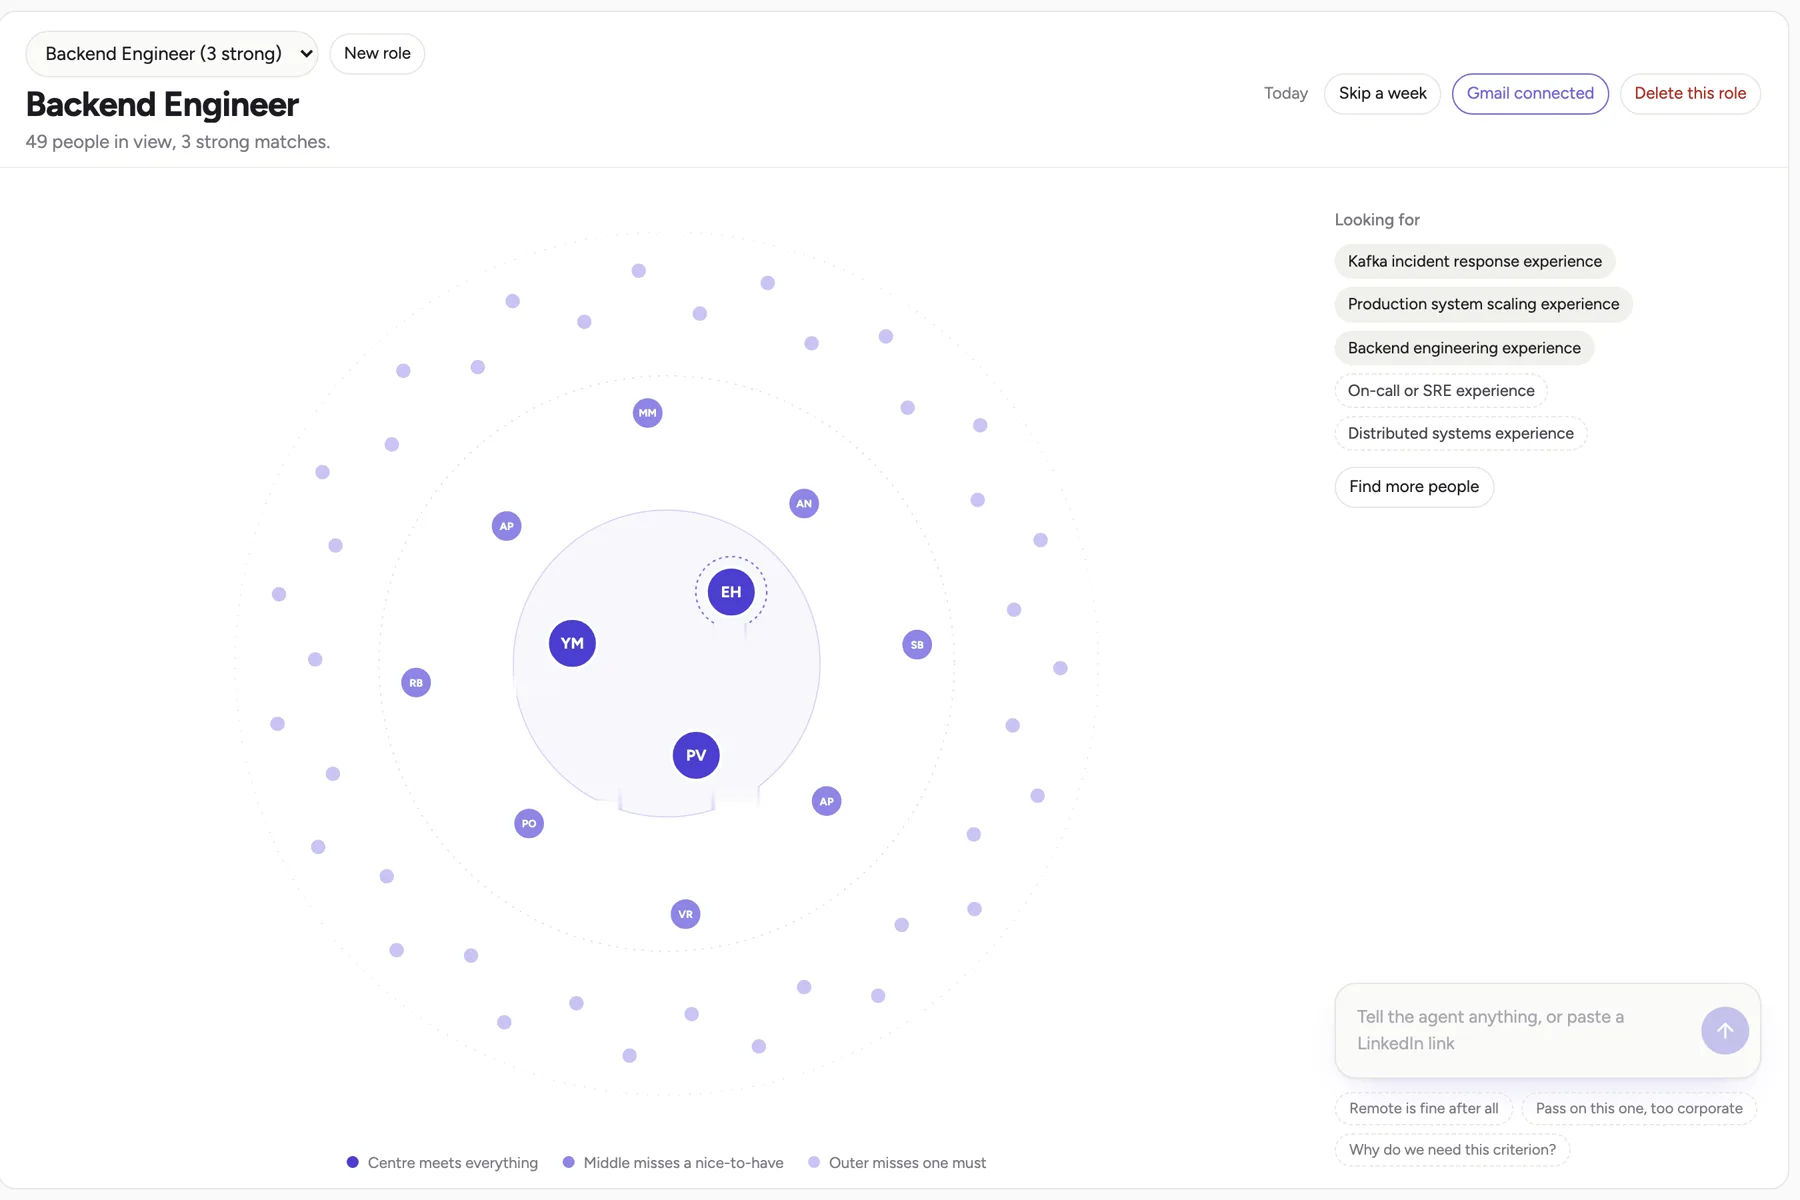
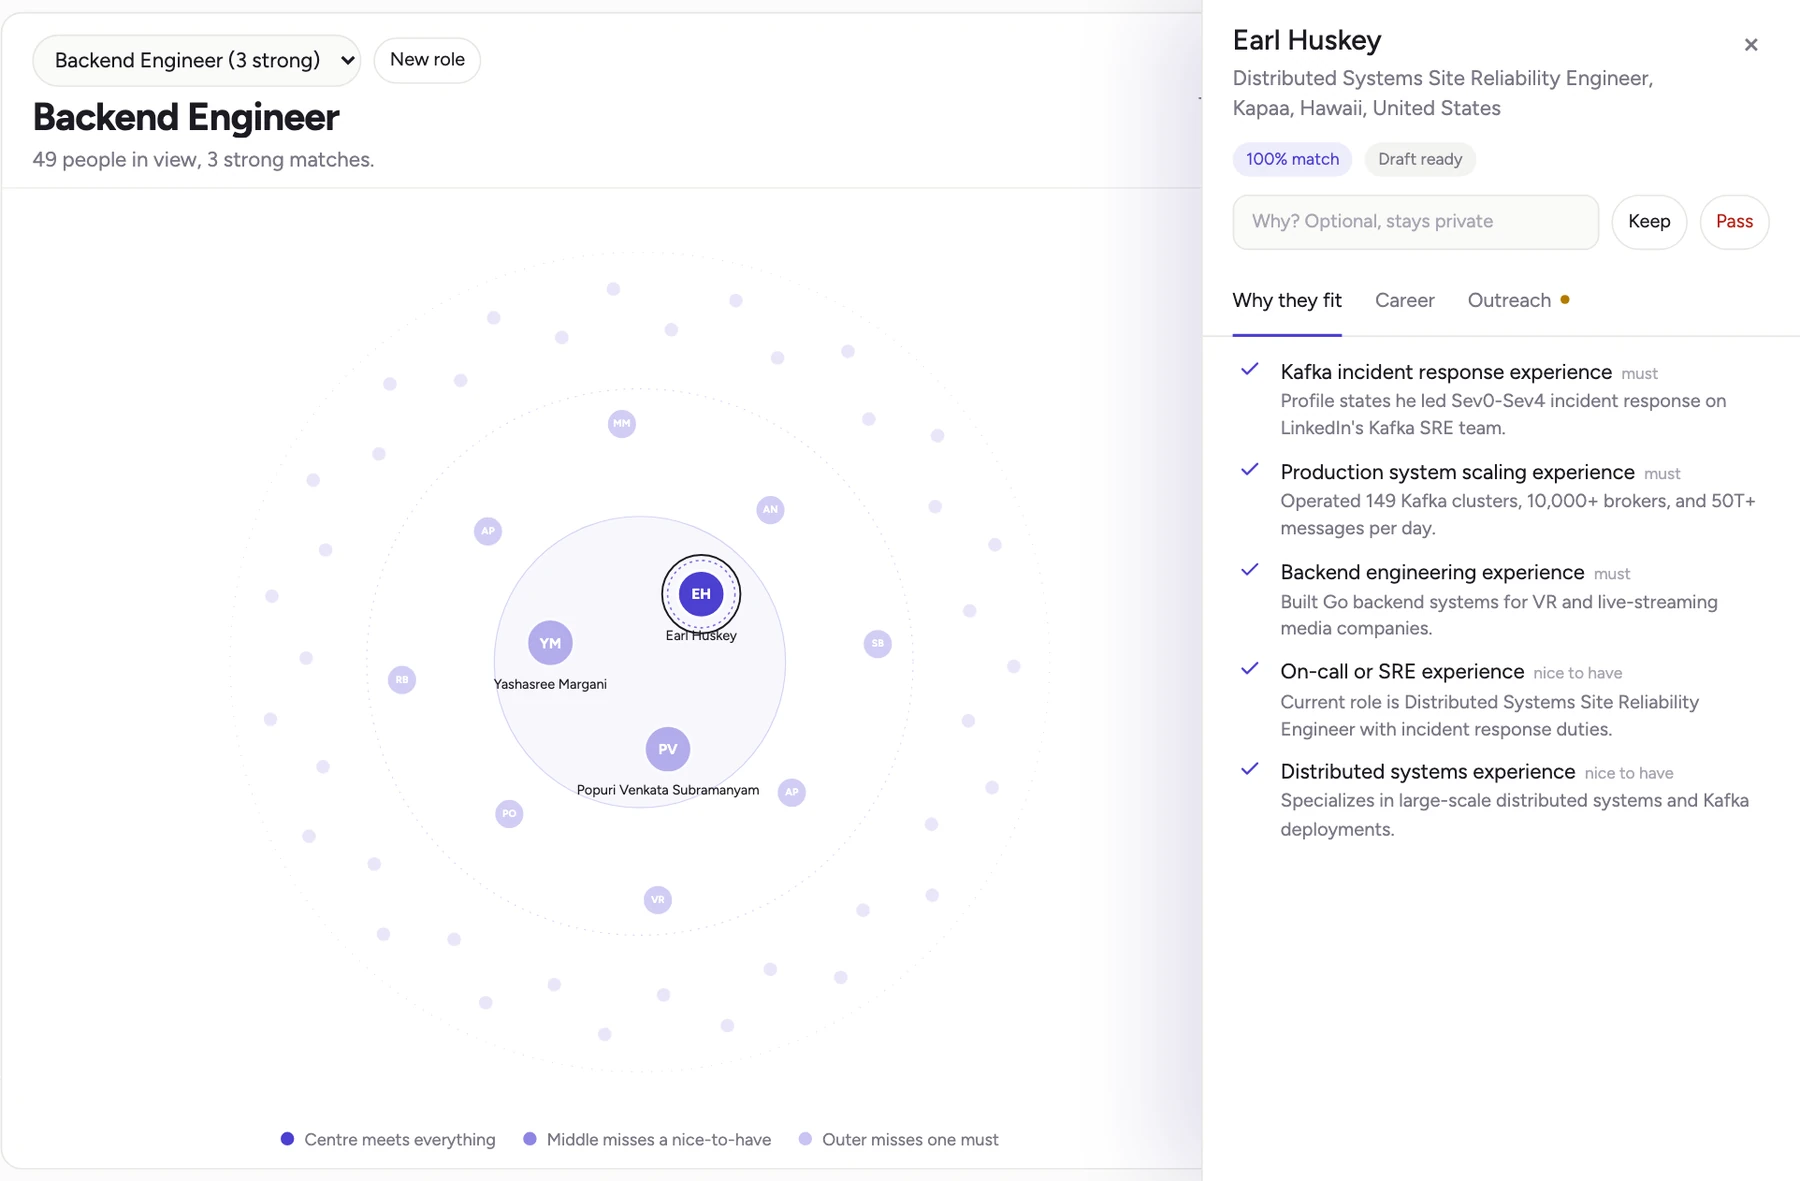
Landing and meetings: the Stellar Ark ring, and a fuller hiring screenshot
The landing page opens with who builds Kaki: a band under the hero with the
ring, naming the three wearables and how the ring brings a table-top meeting
into Kaki; the 11:00 step points back to it. Start recording offers the ring
as a third source, falling back to the built-in mic when it is not paired.

The 16:00 screenshot now shows the three strong matches in the centre with
one opened on why he fits, which is what that step says.

diff --git a/public/landing.html b/public/landing.html
@@ -50,6 +50,21 @@
         </figure>
       </section>
 
+      <!-- Maker: who Kaki is built for, and the ring that brings the room in. -->
+      <section class="maker" id="maker">
+        <div class="wrap maker-grid">
+          <figure class="maker-shot reveal">
+            <img src="/assets/landing/ring-hero.webp" width="1920" height="1072"
+                 alt="The Stellar Ark ring standing beside its open charging case.">
+          </figure>
+          <div class="maker-copy reveal">
+            <p class="kicker">Built at Stellar Ark AI</p>
+            <h2>Made by a small team that makes wearables.</h2>
+            <p>Stellar Ark builds AI-native wearables: context glasses, a pendant and this ring. Kaki is the agent that runs on their company records at work. Calls reach it through a browser tab; meetings at a table reach it through the ring on your finger.</p>
+          </div>
+        </div>
+      </section>
+
       <!-- Problem: one statement, the way a small team lives it. -->
       <section class="problem">
         <div class="wrap narrow reveal">
@@ -83,7 +98,7 @@
               <li class="step" data-shot="2">
                 <time>11:00</time>
                 <h3>On the call, it keeps track</h3>
-                <p>Kaki writes the call down line by line. When someone says plan A after the team agreed on B, it flags the conflict.</p>
+                <p>Kaki writes the call down line by line, from the call's tab or from the ring on your finger. When someone says plan A after the team agreed on B, it flags the conflict.</p>
                 <figure class="step-shot"><img src="/assets/landing/meeting.webp" width="1920" height="960" loading="lazy" alt="A live meeting in Kaki: promises, decisions, a conflict flag and a withheld secret in the transcript."></figure>
               </li>
               <li class="step" data-shot="3">
@@ -102,7 +117,7 @@
                 <time>16:00</time>
                 <h3>From “we need someone” to outreach</h3>
                 <p>You confirm what the role needs. Kaki searches public profiles, puts the best matches in the middle and says why each one fits. It drafts the outreach.</p>
-                <figure class="step-shot"><img src="/assets/landing/recruit.webp" width="1800" height="1200" loading="lazy" alt="Candidates for a backend role arranged by how many criteria they meet, with the criteria listed beside them."></figure>
+                <figure class="step-shot"><img src="/assets/landing/recruit.webp" width="1800" height="1181" loading="lazy" alt="Three strong matches for a backend role in the centre ring, with one opened to show why he meets each criterion."></figure>
               </li>
             </ol>
 
@@ -113,12 +128,13 @@
                 <img src="/assets/landing/meeting.webp" width="1920" height="960" alt="" loading="lazy">
                 <img src="/assets/landing/promised.webp" width="1920" height="920" alt="" loading="lazy">
                 <img src="/assets/landing/map.webp" width="1500" height="560" alt="" loading="lazy">
-                <img src="/assets/landing/recruit.webp" width="1800" height="1200" alt="" loading="lazy">
+                <img src="/assets/landing/recruit.webp" width="1800" height="1181" alt="" loading="lazy">
               </div>
             </div>
           </div>
         </div>
       </section>
+
 
       <!-- Control: five rules, each its own cell. -->
       <section class="control" id="control">
@@ -173,6 +189,7 @@
           </dl>
         </div>
       </section>
+
 
       <!-- Close: the product's own end-of-day line. -->
       <section class="close">

diff --git a/public/meetings.js b/public/meetings.js
@@ -1392,7 +1392,19 @@ const recording = {
   queue: Promise.resolve(),
 };
 
-// source: "tab" records a browser tab (the call) and the mic; "mic" the mic alone.
+// The Stellar Ark ring shows up as a Bluetooth audio input once paired. Unpaired
+// (or before the first permission grant, when labels are blank), the built-in
+// mic records the room instead, so the choice never blocks a meeting.
+async function microphoneFor(source) {
+  const audio = { echoCancellation: true, noiseSuppression: true };
+  if (source !== "ring") return audio;
+  const devices = await navigator.mediaDevices.enumerateDevices().catch(() => []);
+  const ring = devices.find((device) => device.kind === "audioinput" && /stellar|ark|ring/i.test(device.label));
+  return ring ? { ...audio, deviceId: { exact: ring.deviceId } } : audio;
+}
+
+// source: "tab" records a browser tab (the call) and the mic; "mic" the mic alone;
+// "ring" the Stellar Ark ring, or the mic when the ring is not paired.
 async function startRecording(source = "tab") {
   if (!state.current || state.current.status !== "live" || recording.active) return;
   showError("");
@@ -1414,10 +1426,10 @@ async function startRecording(source = "tab") {
       }
     }
     try {
-      streams.push(await navigator.mediaDevices.getUserMedia({ audio: { echoCancellation: true, noiseSuppression: true } }));
+      streams.push(await navigator.mediaDevices.getUserMedia({ audio: await microphoneFor(source) }));
     } catch (error) {
       // Without the mic, tab audio still records everyone except you.
-      if (source === "mic") throw error;
+      if (source !== "tab") throw error;
     }
   } catch (error) {
     for (const stream of streams) for (const track of stream.getTracks()) track.stop();

diff --git a/public/landing.css b/public/landing.css
@@ -156,6 +156,20 @@
 .stage-frame img:nth-child(5) { object-fit: contain; object-position: center; background: #fbfbfa; }
 .stage-frame img.is-on { opacity: 1; transform: none; }
 
+/* ------------------------------------------------------------ maker */
+
+.maker { padding: 96px 0; border-top: 1px solid var(--l-line); }
+.maker-grid { display: grid; grid-template-columns: minmax(0, 1fr) minmax(0, 1fr); gap: 64px; align-items: center; }
+.maker-shot img {
+  width: 100%; height: auto; display: block;
+  border-radius: var(--radius-surface); border: 1px solid var(--l-line); box-shadow: var(--l-shot-shadow);
+}
+/* The product shot is lit on white; on the dark page it keeps a white tile like the mascot does. */
+.maker-shot img { background: #fff; }
+.kicker { font: 500 14px/1 var(--f-mono); color: var(--l-accent); letter-spacing: 0.02em; }
+.maker-copy h2 { margin-top: 14px; font-size: clamp(30px, 3.4vw, 44px); letter-spacing: -0.03em; line-height: 1.1; }
+.maker-copy p:not(.kicker) { margin-top: 18px; max-width: 46ch; font-size: 18px; line-height: 1.6; color: var(--l-ink-2); }
+
 /* ------------------------------------------------------------ control (bento) */
 
 .control { padding: 128px 0; }
@@ -244,7 +258,8 @@
   .hero h1 { font-size: 38px; }
   .lede { font-size: 17.5px; }
   .cta-row .btn { flex: 1 1 100%; }
-  .problem, .control, .results, .close { padding: 80px 0; }
+  .problem, .control, .results, .close, .maker { padding: 80px 0; }
+  .maker-grid { grid-template-columns: 1fr; gap: 28px; }
   .problem p { font-size: 18px; }
   .day { padding: 80px 0 40px; }
   .day-grid { grid-template-columns: 1fr; gap: 0; }

diff --git a/test/meetings-browser.test.ts b/test/meetings-browser.test.ts
@@ -495,7 +495,7 @@ describe("Meetings page", () => {
     assert.equal(shown("#end-meeting-btn"), false, "ending replaces starting once recording, not beside it");
     assert.equal(page.document.querySelector("#mic-lang"), null, "the language is recognised, not picked");
     const sources = [...page.document.querySelectorAll("#mic-start sl-menu-item")].map((item) => item.getAttribute("value"));
-    assert.deepEqual(sources, ["tab", "mic"], "what to record is asked when starting");
+    assert.deepEqual(sources, ["tab", "mic", "ring"], "what to record is asked when starting");
 
     assert.equal(shown("#live-form"), true, "a live meeting takes typed lines");
     assert.equal(shown("#ended-note"), false);

diff --git a/public/meetings.html b/public/meetings.html
@@ -97,6 +97,7 @@
           <sl-menu id="mic-menu" aria-label="What to record">
             <sl-menu-item value="tab">A browser tab and my mic<span slot="suffix" class="menu-hint">Zoom, Meet, Teams in the browser</span></sl-menu-item>
             <sl-menu-item value="mic">My mic only<span slot="suffix" class="menu-hint">In the room</span></sl-menu-item>
+            <sl-menu-item value="ring">My Stellar Ark ring<span slot="suffix" class="menu-hint">Paired over Bluetooth</span></sl-menu-item>
           </sl-menu>
         </sl-dropdown>
         <button type="button" id="end-meeting-btn" class="quiet warn" hidden>End meeting</button>
